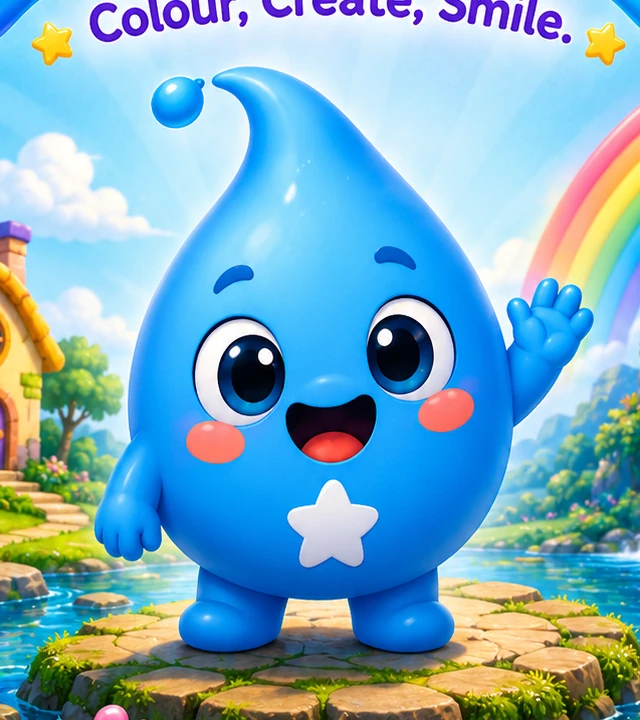
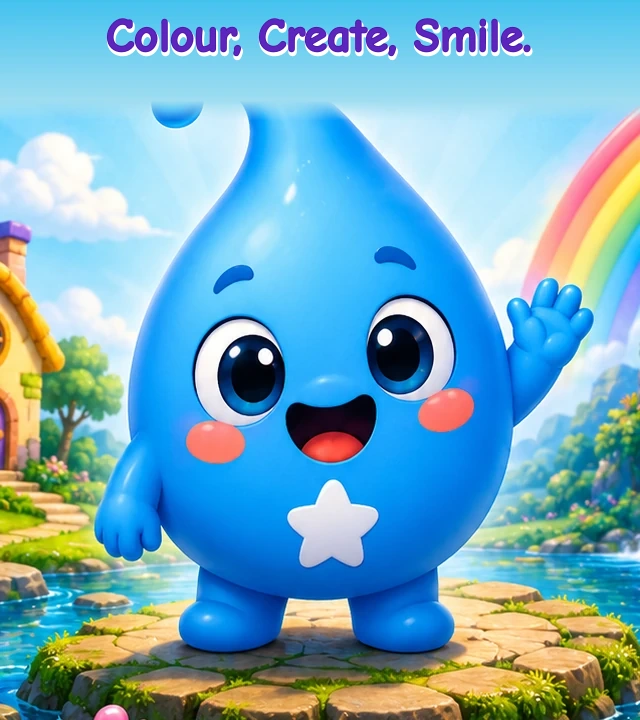
Add files via upload

Changed region(s): [[0.0, 0.0, 1.0, 0.1833]]

diff --git a/index.html b/index.html
@@ -4,13 +4,13 @@
   <meta charset="utf-8">
   <meta name="viewport" content="width=device-width, initial-scale=1">
   <meta name="description" content="PuddlePop is a safe, ad-free colouring adventure for children aged 3–7. Explore six magical worlds, paint beautiful pictures and create happy memories.">
-  <meta name="theme-color" content="#087ee8">
+  <meta name="theme-color" content="#0759c7">
   <meta property="og:title" content="PuddlePop — Colour, Create, Smile">
   <meta property="og:description" content="A safe, ad-free colouring adventure for little artists aged 3–7.">
   <meta property="og:image" content="assets/images/home.webp">
   <title>PuddlePop — Colour, Create, Smile</title>
   <link rel="icon" href="assets/images/pip.webp">
-  <link rel="stylesheet" href="styles-v3.css?v=3">
+  <link rel="stylesheet" href="styles-v5.css?v=8">
   <script defer src="script.js"></script>
   <!-- Google tag (gtag.js) -->
   <script async src="https://www.googletagmanager.com/gtag/js?id=G-1NWRG2J6LN"></script>
@@ -21,34 +21,61 @@
     gtag('config', 'G-1NWRG2J6LN');
   </script>
 </head>
-<body class="homepage">
+<body>
   <a class="skip-link" href="#main">Skip to content</a>
+
+  <header class="site-header">
+    <a class="brand" href="#top" aria-label="PuddlePop home">
+      <img src="assets/images/logo.webp" alt="PuddlePop">
+    </a>
+    <button class="menu-button" type="button" aria-expanded="false" aria-controls="site-nav">Menu</button>
+    <nav id="site-nav" aria-label="Main navigation">
+      <a href="#worlds">Worlds</a>
+      <a href="#parents">For parents</a>
+      <a href="#screenshots">Screenshots</a>
+      <a href="support.html">Support</a>
+      <span class="nav-coming">Coming soon</span>
+    </nav>
+  </header>
+
   <main id="main">
-    <section class="hero-option-two" id="top" aria-labelledby="hero-title">
-      <img class="hero-option-two-art" src="assets/images/hero-option-2.webp" alt="PuddlePop welcome screen with Pip, a wooden sign, six magical worlds and parent trust promises">
-      <h1 id="hero-title" class="visually-hidden">Welcome to PuddlePop</h1>
-      <nav class="hero-hotspots" aria-label="Main navigation">
-        <a class="hotspot hotspot-worlds" href="#worlds"><span>Explore the worlds</span></a>
-        <a class="hotspot hotspot-parents" href="#features"><span>For parents</span></a>
-        <a class="hotspot hotspot-about" href="#screenshots"><span>About PuddlePop</span></a>
-        <a class="hotspot hotspot-support" href="support.html"><span>Support</span></a>
-        <a class="hotspot hotspot-explore" href="#worlds"><span>Explore the worlds</span></a>
-      </nav>
+    <section class="hero" id="top" aria-labelledby="hero-title">
+      <img class="hero-art" src="assets/images/home.webp" alt="Pip surrounded by six magical PuddlePop worlds">
+      <div class="hero-board-copy">
+        <p class="hero-kicker">A magical colouring adventure</p>
+        <h1 id="hero-title"><span>Welcome to</span>PuddlePop</h1>
+      </div>
+      <div class="hero-info-panel" aria-label="PuddlePop introduction">
+        <div class="hero-info-text">
+          <span class="hero-safe-badge">100% ad-free</span>
+          <p>A safe, colourful adventure made for little artists aged 3–7.</p>
+        </div>
+        <div class="hero-actions">
+          <a class="button primary" href="#worlds">Explore the worlds</a>
+          <span class="button secondary">Coming soon on Google Play</span>
+        </div>
+      </div>
     </section>
 
-    <section class="intro section-wave" aria-labelledby="intro-title">
-      <div class="container split">
-        <div class="copy reveal">
-          <p class="eyebrow purple">Made for little artists</p>
+    <section class="intro" aria-labelledby="intro-title">
+      <div class="container intro-grid">
+        <div class="intro-copy reveal">
+          <p class="eyebrow">Made for little artists</p>
           <h2 id="intro-title">Where creativity comes to life</h2>
           <p>PuddlePop is a beautifully designed colouring adventure created especially for children aged <strong>3 to 7</strong>.</p>
           <p>From pirate ships and friendly dinosaurs to magical castles and rocket adventures, every picture encourages imagination, confidence and creativity.</p>
           <div class="mini-badges" aria-label="Key benefits">
-            <span>100% ad-free</span><span>Calm play</span><span>Big controls</span><span>Saved progress</span>
+            <span>100% ad-free</span>
+            <span>Calm play</span>
+            <span>Big controls</span>
+            <span>Saved progress</span>
           </div>
         </div>
-        <figure class="pip-card pip-card-fitted reveal">
-          <img src="assets/images/pip-card-fitted.webp" alt="Pip, PuddlePop's cheerful blue paint-drop mascot, fully visible and waving">
+        <figure class="pip-card reveal">
+          <div class="pip-image-wrap">
+            <img src="assets/images/pip.webp" alt="Pip, the cheerful blue PuddlePop mascot, waving">
+          </div>
+          <figcaption><strong>Hi! I’m Pip!</strong><br>Come and colour with me!</figcaption>
         </figure>
       </div>
     </section>
@@ -59,30 +86,28 @@
         <h2 id="worlds-title" class="centred">Explore magical worlds</h2>
         <p class="section-lead">Every world contains ten cheerful pictures made for small hands and big imaginations.</p>
         <div class="world-grid">
-          <article class="world-card reveal"><img src="assets/images/world-pirate.webp" alt="Pirate ship on a tropical island"><div><span>🏴☠</span><h3>Pirate Cove</h3><p>Treasure, ships and sunny island adventures.</p></div></article>
-          <article class="world-card reveal"><img src="assets/images/world-ocean.webp" alt="Colourful fish and coral reef"><div><span>🐠</span><h3>Ocean Reef</h3><p>Friendly sea creatures beneath sparkling waves.</p></div></article>
-          <article class="world-card reveal"><img src="assets/images/world-dino.webp" alt="Friendly green dinosaur on an island"><div><span>🦕</span><h3>Dino Valley</h3><p>Happy dinosaurs and prehistoric discoveries.</p></div></article>
-          <article class="world-card reveal"><img src="assets/images/world-farm.webp" alt="Red barn on a small green island"><div><span>🚜</span><h3>Farm Hills</h3><p>Animals, tractors and bright country days.</p></div></article>
-          <article class="world-card reveal"><img src="assets/images/world-space.webp" alt="Rocket surrounded by stars and planets"><div><span>🚀</span><h3>Space Lagoon</h3><p>Rockets, planets and twinkling adventures.</p></div></article>
-          <article class="world-card reveal"><img src="assets/images/world-princess.webp" alt="Pink fairy-tale castle"><div><span>👑</span><h3>Princess Castle</h3><p>Castles, magic and storybook wonder.</p></div></article>
+          <article class="world-card reveal"><img src="assets/images/world-pirate.webp" alt="Pirate ship on a tropical island"><div><h3>Pirate Cove</h3><p>Treasure, ships and sunny island adventures.</p></div></article>
+          <article class="world-card reveal"><img src="assets/images/world-ocean.webp" alt="Colourful fish and coral reef"><div><h3>Ocean Reef</h3><p>Friendly sea creatures beneath sparkling waves.</p></div></article>
+          <article class="world-card reveal"><img src="assets/images/world-dino.webp" alt="Friendly green dinosaur on an island"><div><h3>Dino Valley</h3><p>Happy dinosaurs and prehistoric discoveries.</p></div></article>
+          <article class="world-card reveal"><img src="assets/images/world-farm.webp" alt="Red barn on a small green island"><div><h3>Farm Hills</h3><p>Animals, tractors and bright country days.</p></div></article>
+          <article class="world-card reveal"><img src="assets/images/world-space.webp" alt="Rocket surrounded by stars and planets"><div><h3>Space Lagoon</h3><p>Rockets, planets and twinkling adventures.</p></div></article>
+          <article class="world-card reveal"><img src="assets/images/world-princess.webp" alt="Pink fairy-tale castle"><div><h3>Princess Castle</h3><p>Castles, magic and storybook wonder.</p></div></article>
         </div>
       </div>
     </section>
 
-    <section id="features" class="features" aria-labelledby="features-title">
+    <section id="parents" class="features" aria-labelledby="features-title">
       <div class="container">
-        <p class="eyebrow centred purple">Made with parents in mind</p>
+        <p class="eyebrow centred">Made with parents in mind</p>
         <h2 id="features-title" class="centred">Happy creativity. Thoughtful design.</h2>
         <div class="feature-grid">
-          <article class="feature reveal ad-free-feature"><span class="feature-icon">🚫</span><h3>No advertisements</h3><p>PuddlePop contains no third-party advertising, so children can create without disruptive adverts or sales messages.</p></article>
-          <article class="feature reveal"><span class="feature-icon">🎨</span><h3>Encourages creativity</h3><p>Children choose colours and paint with their fingers in a relaxed, playful space.</p></article>
-          <article class="feature reveal"><span class="feature-icon">😊</span><h3>Calm screen time</h3><p>No stressful timers or competitive scoring—just gentle, creative play.</p></article>
-          <article class="feature reveal"><span class="feature-icon">🔒</span><h3>Parent protected</h3><p>Adult settings and purchases sit behind a simple parental gate.</p></article>
-          <article class="feature reveal"><span class="feature-icon">👆</span><h3>Designed for ages 3–7</h3><p>Large controls, clear navigation and a layout designed for young children.</p></article>
-          <article class="feature reveal"><span class="feature-icon">💾</span><h3>Saves every masterpiece</h3><p>Pictures and progress can be continued later for each child profile.</p></article>
-          <article class="feature reveal"><span class="feature-icon">⭐</span><h3>Positive celebrations</h3><p>Finished pictures receive a cheerful celebration and a special gold star.</p></article>
+          <article class="feature reveal"><span>🚫</span><h3>No advertisements</h3><p>No third-party adverts or disruptive sales messages.</p></article>
+          <article class="feature reveal"><span>🎨</span><h3>Encourages creativity</h3><p>Children choose colours and paint in a relaxed space.</p></article>
+          <article class="feature reveal"><span>😊</span><h3>Calm screen time</h3><p>No stressful timers or competitive scoring.</p></article>
+          <article class="feature reveal"><span>🔒</span><h3>Parent protected</h3><p>Adult settings and purchases sit behind a parental gate.</p></article>
+          <article class="feature reveal"><span>👆</span><h3>Designed for ages 3–7</h3><p>Large controls and clear, child-friendly navigation.</p></article>
+          <article class="feature reveal"><span>💾</span><h3>Saves every masterpiece</h3><p>Pictures and progress can be continued later.</p></article>
         </div>
-        <p class="safety-note">PuddlePop is ad-free and does not include third-party advertisements, public chat, social networking or links that children can freely browse.</p>
       </div>
     </section>
 
@@ -91,7 +116,7 @@
         <p class="eyebrow centred">Inside PuddlePop</p>
         <h2 id="screens-title" class="centred">A colourful studio made for small hands</h2>
         <div class="shot-grid">
-          <figure class="shot wide reveal"><img src="assets/images/colouring.webp" alt="PuddlePop Princess Castle colouring studio with colour pots and large buttons"><figcaption>Simple finger painting with large, friendly controls.</figcaption></figure>
+          <figure class="shot wide reveal"><img src="assets/images/colouring.webp" alt="PuddlePop Princess Castle colouring studio"><figcaption>Simple finger painting with large, friendly controls.</figcaption></figure>
           <figure class="shot reveal"><img src="assets/images/gallery.webp" alt="A magical castle world in PuddlePop"><figcaption>Beautifully themed worlds to explore.</figcaption></figure>
           <figure class="shot portrait reveal"><img src="assets/images/splash.webp" alt="PuddlePop loading screen featuring Pip"><figcaption>A warm welcome from Pip.</figcaption></figure>
         </div>
@@ -101,19 +126,36 @@
     <section class="download" aria-labelledby="download-title">
       <div class="download-panel reveal">
         <img src="assets/images/pip.webp" alt="Pip waving">
-        <div><p class="eyebrow">Colour • Create • Smile</p><h2 id="download-title">A world of colour is coming soon</h2><p>PuddlePop is preparing for its Google Play launch. Follow the official website for release information.</p><span class="button coming dark">Coming soon on Google Play</span></div>
+        <div>
+          <p class="eyebrow">Colour • Create • Smile</p>
+          <h2 id="download-title">A world of colour is coming soon</h2>
+          <p>PuddlePop is preparing for its Google Play launch. Follow the official website for release information.</p>
+          <span class="button secondary">Coming soon on Google Play</span>
+        </div>
       </div>
     </section>
   </main>
 
   <footer>
-    <div class="footer-rainbow"></div>
+    <div class="rainbow"></div>
     <div class="container footer-grid">
-      <div><img class="footer-logo" src="assets/images/logo.webp" alt="PuddlePop"><p>A safe, ad-free, calm and creative app for children aged 3–7.</p></div>
-      <div><h2>Help &amp; information</h2><a href="support.html">Support</a><a href="privacy.html">Privacy</a><a href="terms.html">Terms</a><a href="mailto:help@puddlepop.app">help@puddlepop.app</a></div>
-      <div><h2>Company</h2><p>PuddlePop Ltd<br>Registered in England and Wales<br>Company number 17349366</p></div>
+      <div>
+        <img class="footer-logo" src="assets/images/logo.webp" alt="PuddlePop">
+        <p>A safe, ad-free colouring adventure for children aged 3–7.</p>
+      </div>
+      <div>
+        <h2>Information</h2>
+        <a href="support.html">Support</a>
+        <a href="privacy.html">Privacy</a>
+        <a href="terms.html">Terms</a>
+      </div>
+      <div>
+        <h2>Contact</h2>
+        <a href="mailto:help@puddlepop.app">help@puddlepop.app</a>
+        <p>PuddlePop Ltd<br>Company number 17349366</p>
+      </div>
     </div>
-    <p class="copyright">© <span id="year">2026</span> PuddlePop Ltd. All rights reserved.</p>
+    <p class="copyright">© 2026 PuddlePop Ltd. All rights reserved.</p>
   </footer>
 </body>
 </html>

diff --git a/styles-v5.css b/styles-v5.css
@@ -1,0 +1,154 @@
+:root{--blue:#0759c7;--deep:#0d3da2;--purple:#6527b7;--ink:#102b61;--sky:#eefbff;--shadow:0 22px 55px rgba(20,65,135,.18)}
+*{box-sizing:border-box}html{scroll-behavior:smooth}body{margin:0;font-family:Trebuchet MS,Arial,sans-serif;color:var(--ink);background:#fff;line-height:1.55}img{display:block;max-width:100%}a{color:inherit}.skip-link{position:fixed;left:12px;top:-80px;z-index:1000;background:#fff;padding:12px 18px;border-radius:12px}.skip-link:focus{top:12px}.container{width:min(1180px,92vw);margin:auto}.centred{text-align:center}.eyebrow{margin:0 0 .55rem;color:#6c2dd0;text-transform:uppercase;letter-spacing:.1em;font-weight:900;font-size:.82rem}.section-lead{max-width:680px;margin:0 auto 36px;text-align:center;font-size:1.08rem}.site-header{height:82px;padding:0 clamp(18px,4vw,64px);display:flex;align-items:center;justify-content:space-between;background:linear-gradient(90deg,#0755ba,#063a9c);color:#fff;position:relative;z-index:20}.brand img{width:250px;height:66px;object-fit:cover;object-position:center 27%;border-radius:12px}.site-header nav{display:flex;align-items:center;gap:34px;font-weight:900}.site-header nav a{text-decoration:none}.site-header nav a:hover{text-decoration:underline}.nav-coming{padding:.7rem 1.2rem;border-radius:999px;background:linear-gradient(#ffd56c,#ffad35);color:#653200;box-shadow:0 7px 12px rgba(0,0,0,.17)}.menu-button{display:none;border:0;border-radius:12px;padding:.7rem 1rem;font-weight:900;color:#1545a8;background:#fff}
+.hero{position:relative;width:100%;aspect-ratio:16/9;min-height:630px;overflow:hidden;background:#1e9fe7}.hero-art{position:absolute;inset:0;width:100%;height:100%;object-fit:cover}.hero-copy{position:absolute;left:46.75%;top:20.15%;width:22.5%;height:21.4%;max-width:none;transform:translateX(-50%);display:flex;flex-direction:column;align-items:center;justify-content:center;text-align:center;color:#123e8f;padding:.35% 1.1% .45%}.hero-kicker{margin:0 0 .18rem;font-size:clamp(.58rem,.68vw,.78rem);font-weight:900;text-transform:uppercase;letter-spacing:.075em;color:#076ed9;line-height:1.05}.hero-copy h1{margin:0;font-size:clamp(1.62rem,2.55vw,3rem);line-height:.91;color:#0b65cf;text-shadow:0 2px 0 #fff}.hero-copy h1 span{display:block;font-size:.59em;color:#642c9d;text-shadow:none;margin-bottom:.08em;line-height:1}.hero-description{max-width:95%;margin:.38rem auto .48rem;font-size:clamp(.65rem,.73vw,.84rem);font-weight:900;line-height:1.18}.hero-actions{display:flex;flex-direction:column;align-items:center;gap:5px;width:100%}.hero-actions .button{max-width:92%;padding:.48rem .88rem;font-size:clamp(.66rem,.69vw,.8rem)}.button{display:inline-flex;align-items:center;justify-content:center;text-decoration:none;border-radius:999px;padding:.66rem 1.05rem;font-weight:900;line-height:1.15;box-shadow:0 8px 18px rgba(31,67,124,.2)}.button.primary{background:linear-gradient(#7d3dd6,#4c139f);color:#fff;border:3px solid #fff}.button.secondary{background:#fff8e5;color:#8a4700;border:2px solid #ffc44a}
+.intro{padding:105px 0;background:linear-gradient(#effbff,#fff)}.intro-grid{display:grid;grid-template-columns:1.02fr .98fr;align-items:center;gap:84px}.intro-copy h2,.worlds h2,.features h2,.screenshots h2,.download h2{font-size:clamp(2.1rem,4vw,3.65rem);line-height:1.08;margin:.12rem 0 1rem;color:#1949b6}.intro-copy p{font-size:1.1rem}.mini-badges{display:flex;flex-wrap:wrap;gap:10px;margin-top:26px}.mini-badges span{padding:.55rem .9rem;border:2px solid #bce8fb;border-radius:999px;background:#fff;color:#1853ae;font-weight:900}.pip-card{position:relative;margin:0;border:8px solid #fff;border-radius:46px;background:#a9eaff;box-shadow:0 18px 42px rgba(20,65,135,.14);overflow:hidden;min-height:560px}.pip-image-wrap{height:560px;background:#a9eaff}.pip-card img{width:100%;height:100%;object-fit:contain;object-position:center bottom}.pip-card figcaption{position:absolute;right:24px;top:34px;padding:17px 22px;border:4px solid #8fdcf7;border-radius:26px;background:#fff;text-align:center;color:#5927aa;box-shadow:0 12px 28px rgba(20,60,120,.18)}
+.worlds{padding:95px 0;background:linear-gradient(#fff,#eaf8ff)}.world-grid{display:grid;grid-template-columns:repeat(3,1fr);gap:24px}.world-card{overflow:hidden;border:6px solid #fff;border-radius:28px;background:#fff;box-shadow:var(--shadow);transition:.25s}.world-card:hover{transform:translateY(-8px)}.world-card img{width:100%;height:220px;object-fit:cover}.world-card div{padding:18px 20px 24px}.world-card h3{margin:0 0 .3rem;color:#5c29b1;font-size:1.45rem}.world-card p{margin:0}.features{padding:95px 0;background:linear-gradient(145deg,#fff9e9,#fff,#f1ebff)}.feature-grid{display:grid;grid-template-columns:repeat(3,1fr);gap:20px;margin-top:36px}.feature{padding:26px;border:3px solid #eee8ff;border-radius:26px;background:#fff;box-shadow:0 13px 32px rgba(39,52,114,.12)}.feature span{font-size:2.35rem}.feature h3{margin:.45rem 0;color:#562da9}.feature p{margin:0}.screenshots{padding:95px 0;background:#eaf9ff}.shot-grid{display:grid;grid-template-columns:1.45fr 1fr 1fr;gap:22px;margin-top:38px}.shot{display:flex;flex-direction:column;overflow:hidden;margin:0;border:7px solid #fff;border-radius:30px;background:#fff;box-shadow:var(--shadow)}.shot img{width:100%;height:420px;object-fit:cover}.shot figcaption{padding:15px 18px;color:#4f2ca8;font-weight:900;text-align:center}.download{padding:95px 4vw;background:url('assets/images/gallery.webp') center/cover fixed no-repeat}.download-panel{width:min(1000px,94vw);margin:auto;display:grid;grid-template-columns:300px 1fr;align-items:center;gap:36px;padding:26px 44px;border:8px solid #fff;border-radius:44px;background:rgba(255,255,255,.95);box-shadow:0 28px 75px rgba(19,31,92,.35)}.download-panel img{width:100%;height:315px;object-fit:contain;object-position:center bottom;border-radius:28px;background:#bceeff}.rainbow{height:16px;background:linear-gradient(90deg,#ff4f7f,#ff9d2e,#ffe24b,#4bdc6a,#3bc8ff,#5165f3,#a14beb)}footer{background:#103f9f;color:#fff}.footer-grid{display:grid;grid-template-columns:1.2fr .8fr 1fr;gap:50px;padding:56px 0 34px}.footer-logo{width:230px;height:92px;object-fit:cover;object-position:center 27%;border-radius:16px}.footer-grid h2{font-size:1rem;color:#ffec6c;text-transform:uppercase;letter-spacing:.08em}.footer-grid a{display:block;margin:.35rem 0;text-decoration:none}.footer-grid a:hover{text-decoration:underline}.copyright{margin:0;padding:19px;text-align:center;border-top:1px solid rgba(255,255,255,.2)}.reveal{opacity:0;transform:translateY(22px);transition:.65s}.reveal.visible{opacity:1;transform:none}
+@media(max-width:1050px){.site-header nav{gap:20px}.hero{min-height:570px}.hero-copy{left:46.75%;top:20.15%;width:24%;height:21.4%}.intro-grid{gap:42px}.pip-card,.pip-image-wrap{min-height:500px;height:500px}}
+@media(max-width:820px){.site-header{height:74px}.brand img{width:190px;height:54px}.menu-button{display:block}.site-header nav{position:absolute;display:none;top:74px;left:15px;right:15px;flex-direction:column;align-items:stretch;gap:6px;padding:15px;border-radius:18px;background:#fff;color:#1648a6;box-shadow:var(--shadow)}.site-header nav.open{display:flex}.site-header nav a,.nav-coming{padding:.7rem 1rem}.hero{aspect-ratio:auto;min-height:720px}.hero-art{object-position:center}.hero-copy{left:46.75%;top:19%;width:31%;height:23%;}.hero-copy h1{font-size:clamp(2rem,7vw,3.4rem)}.hero-description{font-size:.85rem}.intro-grid,.download-panel{grid-template-columns:1fr}.world-grid,.feature-grid{grid-template-columns:repeat(2,1fr)}.shot-grid{grid-template-columns:1fr 1fr}.shot.wide{grid-column:1/-1}.footer-grid{grid-template-columns:1fr 1fr}.footer-grid>div:first-child{grid-column:1/-1}}
+@media(max-width:560px){.hero{min-height:650px}.hero-art{object-position:50% center}.hero-copy{left:46.75%;top:18.5%;width:43%;height:25%}.hero-kicker{font-size:.58rem}.hero-copy h1{font-size:2rem}.hero-description{font-size:.72rem;margin:.55rem auto}.button{padding:.62rem .85rem;font-size:.78rem}.intro,.worlds,.features,.screenshots{padding:70px 0}.intro-grid{gap:34px}.pip-card,.pip-image-wrap{min-height:430px;height:430px}.pip-card figcaption{top:16px;right:12px;padding:10px 13px;font-size:.8rem}.world-grid,.feature-grid,.shot-grid{grid-template-columns:1fr}.shot.wide{grid-column:auto}.shot img{height:310px}.download{padding:65px 3vw}.download-panel{padding:22px;text-align:center}.download-panel img{height:265px}.footer-grid{grid-template-columns:1fr;gap:24px}.footer-grid>div:first-child{grid-column:auto}}
+
+/* Fresh two-part homepage hero */
+.hero-board-copy{
+  position:absolute;
+  left:46.75%;
+  top:20.1%;
+  width:22.5%;
+  height:20.2%;
+  transform:translateX(-50%);
+  display:flex;
+  flex-direction:column;
+  align-items:center;
+  justify-content:center;
+  text-align:center;
+  color:#123e8f;
+  padding:.7% 1.7% 1%;
+}
+.hero-board-copy .hero-kicker{
+  margin:0 0 .45rem;
+  font-size:clamp(.58rem,.7vw,.82rem);
+  font-weight:900;
+  text-transform:uppercase;
+  letter-spacing:.09em;
+  color:#076ed9;
+  line-height:1.08;
+}
+.hero-board-copy h1{
+  margin:0;
+  font-size:clamp(1.8rem,2.85vw,3.35rem);
+  line-height:.9;
+  color:#0b65cf;
+  text-shadow:0 2px 0 #fff;
+}
+.hero-board-copy h1 span{
+  display:block;
+  margin-bottom:.14em;
+  font-size:.53em;
+  line-height:1;
+  color:#642c9d;
+  text-shadow:none;
+}
+.hero-info-panel{
+  position:absolute;
+  left:50%;
+  bottom:4.2%;
+  width:min(760px,72vw);
+  transform:translateX(-50%);
+  display:flex;
+  align-items:center;
+  justify-content:space-between;
+  gap:24px;
+  padding:16px 18px 16px 24px;
+  border:4px solid rgba(255,255,255,.96);
+  border-radius:28px;
+  background:rgba(255,255,255,.94);
+  box-shadow:0 18px 42px rgba(10,55,125,.28);
+  backdrop-filter:blur(8px);
+}
+.hero-info-text{display:flex;align-items:center;gap:15px;min-width:0}
+.hero-info-text p{margin:0;font-size:clamp(.9rem,1.05vw,1.08rem);font-weight:900;line-height:1.25;color:#173d86}
+.hero-safe-badge{flex:0 0 auto;padding:.55rem .8rem;border-radius:999px;background:linear-gradient(#68df79,#29b94d);color:#fff;font-size:.76rem;font-weight:900;text-transform:uppercase;letter-spacing:.045em;box-shadow:inset 0 -3px 0 rgba(0,0,0,.1)}
+.hero-info-panel .hero-actions{display:flex;flex-direction:row;align-items:center;gap:9px;width:auto;flex:0 0 auto}
+.hero-info-panel .button{max-width:none;padding:.72rem 1rem;font-size:.78rem;white-space:nowrap}
+
+@media(max-width:1050px){
+  .hero-board-copy{left:46.75%;top:20.1%;width:24%;height:20.2%}
+  .hero-info-panel{width:min(720px,82vw)}
+}
+@media(max-width:820px){
+  .hero-board-copy{left:46.75%;top:19%;width:31%;height:22%}
+  .hero-board-copy h1{font-size:clamp(2rem,7vw,3.4rem)}
+  .hero-info-panel{bottom:3%;width:min(620px,92vw);padding:14px 16px;gap:14px}
+  .hero-info-text{gap:10px}
+  .hero-info-panel .hero-actions{flex-direction:column;gap:6px}
+  .hero-info-panel .button{width:100%}
+}
+@media(max-width:560px){
+  .hero-board-copy{left:46.75%;top:18.5%;width:43%;height:24%}
+  .hero-board-copy .hero-kicker{font-size:.54rem;margin-bottom:.3rem}
+  .hero-board-copy h1{font-size:2rem}
+  .hero-info-panel{bottom:2.2%;display:block;width:92vw;padding:14px;border-width:3px;border-radius:23px;text-align:center}
+  .hero-info-text{display:block}
+  .hero-safe-badge{display:inline-block;margin-bottom:8px}
+  .hero-info-text p{font-size:.86rem}
+  .hero-info-panel .hero-actions{margin-top:11px;flex-direction:row}
+  .hero-info-panel .button{font-size:.7rem;padding:.62rem .72rem}
+}
+
+/* Header refinement — keep the full PuddlePop logo visible */
+.site-header{
+  min-height:96px;
+  height:96px;
+  padding:0 clamp(22px,4.5vw,76px);
+  background:linear-gradient(180deg,#1171db 0%,#0759c7 52%,#0645a7 100%);
+  box-shadow:0 8px 24px rgba(8,54,135,.24);
+  overflow:visible;
+}
+.brand{
+  display:flex;
+  align-items:center;
+  align-self:stretch;
+  flex:0 0 auto;
+  padding:8px 0;
+}
+.brand img{
+  width:270px;
+  height:80px;
+  object-fit:contain;
+  object-position:center;
+  border-radius:0;
+}
+.site-header nav{
+  gap:clamp(18px,2.2vw,34px);
+}
+.site-header nav a{
+  position:relative;
+  padding:.45rem 0;
+  text-shadow:0 1px 2px rgba(0,0,0,.14);
+}
+.site-header nav a::after{
+  content:"";
+  position:absolute;
+  left:50%;
+  right:50%;
+  bottom:0;
+  height:3px;
+  border-radius:999px;
+  background:#fff;
+  transition:left .2s ease,right .2s ease;
+}
+.site-header nav a:hover{text-decoration:none}
+.site-header nav a:hover::after,
+.site-header nav a:focus-visible::after{left:0;right:0}
+
+@media(max-width:820px){
+  .site-header{height:82px;min-height:82px;padding:0 18px}
+  .brand{padding:7px 0}
+  .brand img{width:210px;height:68px}
+  .site-header nav{top:82px}
+}
+@media(max-width:430px){
+  .site-header{height:76px;min-height:76px;padding:0 12px}
+  .brand img{width:178px;height:62px}
+  .site-header nav{top:76px;left:10px;right:10px}
+  .menu-button{padding:.62rem .82rem}
+}

diff --git a/styles-v4.css b/styles-v4.css
@@ -1,0 +1,8 @@
+:root{--blue:#0759c7;--deep:#0d3da2;--purple:#6527b7;--ink:#102b61;--sky:#eefbff;--shadow:0 22px 55px rgba(20,65,135,.18)}
+*{box-sizing:border-box}html{scroll-behavior:smooth}body{margin:0;font-family:Trebuchet MS,Arial,sans-serif;color:var(--ink);background:#fff;line-height:1.55}img{display:block;max-width:100%}a{color:inherit}.skip-link{position:fixed;left:12px;top:-80px;z-index:1000;background:#fff;padding:12px 18px;border-radius:12px}.skip-link:focus{top:12px}.container{width:min(1180px,92vw);margin:auto}.centred{text-align:center}.eyebrow{margin:0 0 .55rem;color:#6c2dd0;text-transform:uppercase;letter-spacing:.1em;font-weight:900;font-size:.82rem}.section-lead{max-width:680px;margin:0 auto 36px;text-align:center;font-size:1.08rem}.site-header{height:82px;padding:0 clamp(18px,4vw,64px);display:flex;align-items:center;justify-content:space-between;background:linear-gradient(90deg,#0755ba,#063a9c);color:#fff;position:relative;z-index:20}.brand img{width:250px;height:66px;object-fit:cover;object-position:center 27%;border-radius:12px}.site-header nav{display:flex;align-items:center;gap:34px;font-weight:900}.site-header nav a{text-decoration:none}.site-header nav a:hover{text-decoration:underline}.nav-coming{padding:.7rem 1.2rem;border-radius:999px;background:linear-gradient(#ffd56c,#ffad35);color:#653200;box-shadow:0 7px 12px rgba(0,0,0,.17)}.menu-button{display:none;border:0;border-radius:12px;padding:.7rem 1rem;font-weight:900;color:#1545a8;background:#fff}
+.hero{position:relative;width:100%;aspect-ratio:16/9;min-height:630px;overflow:hidden;background:#1e9fe7}.hero-art{position:absolute;inset:0;width:100%;height:100%;object-fit:cover}.hero-copy{position:absolute;left:50%;top:18%;transform:translateX(-50%);width:30%;max-width:520px;text-align:center;color:#123e8f}.hero-kicker{margin:0 0 .35rem;font-size:clamp(.65rem,.9vw,.92rem);font-weight:900;text-transform:uppercase;letter-spacing:.08em;color:#076ed9}.hero-copy h1{margin:0;font-size:clamp(2.1rem,4.2vw,4.8rem);line-height:.88;color:#0b65cf;text-shadow:0 3px 0 #fff}.hero-copy h1 span{display:block;font-size:.58em;color:#642c9d;text-shadow:none;margin-bottom:.12em}.hero-description{max-width:420px;margin:.8rem auto 1rem;font-size:clamp(.76rem,1.05vw,1.08rem);font-weight:900}.hero-actions{display:flex;flex-direction:column;align-items:center;gap:10px}.button{display:inline-flex;align-items:center;justify-content:center;text-decoration:none;border-radius:999px;padding:.78rem 1.25rem;font-weight:900;line-height:1.15;box-shadow:0 8px 18px rgba(31,67,124,.2)}.button.primary{background:linear-gradient(#7d3dd6,#4c139f);color:#fff;border:3px solid #fff}.button.secondary{background:#fff8e5;color:#8a4700;border:2px solid #ffc44a}
+.intro{padding:105px 0;background:linear-gradient(#effbff,#fff)}.intro-grid{display:grid;grid-template-columns:1.02fr .98fr;align-items:center;gap:72px}.intro-copy h2,.worlds h2,.features h2,.screenshots h2,.download h2{font-size:clamp(2.1rem,4vw,3.65rem);line-height:1.08;margin:.12rem 0 1rem;color:#1949b6}.intro-copy p{font-size:1.1rem}.mini-badges{display:flex;flex-wrap:wrap;gap:10px;margin-top:26px}.mini-badges span{padding:.55rem .9rem;border:2px solid #bce8fb;border-radius:999px;background:#fff;color:#1853ae;font-weight:900}.pip-card{position:relative;margin:0;border:8px solid #fff;border-radius:46px;background:#a9eaff;box-shadow:var(--shadow);overflow:hidden;min-height:560px}.pip-image-wrap{height:560px;background:#a9eaff}.pip-card img{width:100%;height:100%;object-fit:contain;object-position:center bottom}.pip-card figcaption{position:absolute;right:24px;top:34px;padding:17px 22px;border:4px solid #8fdcf7;border-radius:26px;background:#fff;text-align:center;color:#5927aa;box-shadow:0 12px 28px rgba(20,60,120,.18)}
+.worlds{padding:95px 0;background:linear-gradient(#fff,#eaf8ff)}.world-grid{display:grid;grid-template-columns:repeat(3,1fr);gap:24px}.world-card{overflow:hidden;border:6px solid #fff;border-radius:28px;background:#fff;box-shadow:var(--shadow);transition:.25s}.world-card:hover{transform:translateY(-8px)}.world-card img{width:100%;height:220px;object-fit:cover}.world-card div{padding:18px 20px 24px}.world-card h3{margin:0 0 .3rem;color:#5c29b1;font-size:1.45rem}.world-card p{margin:0}.features{padding:95px 0;background:linear-gradient(145deg,#fff9e9,#fff,#f1ebff)}.feature-grid{display:grid;grid-template-columns:repeat(3,1fr);gap:20px;margin-top:36px}.feature{padding:26px;border:3px solid #eee8ff;border-radius:26px;background:#fff;box-shadow:0 13px 32px rgba(39,52,114,.12)}.feature span{font-size:2.35rem}.feature h3{margin:.45rem 0;color:#562da9}.feature p{margin:0}.screenshots{padding:95px 0;background:#eaf9ff}.shot-grid{display:grid;grid-template-columns:1.45fr 1fr 1fr;gap:22px;margin-top:38px}.shot{display:flex;flex-direction:column;overflow:hidden;margin:0;border:7px solid #fff;border-radius:30px;background:#fff;box-shadow:var(--shadow)}.shot img{width:100%;height:420px;object-fit:cover}.shot figcaption{padding:15px 18px;color:#4f2ca8;font-weight:900;text-align:center}.download{padding:95px 4vw;background:url('assets/images/gallery.webp') center/cover fixed no-repeat}.download-panel{width:min(1000px,94vw);margin:auto;display:grid;grid-template-columns:300px 1fr;align-items:center;gap:36px;padding:26px 44px;border:8px solid #fff;border-radius:44px;background:rgba(255,255,255,.95);box-shadow:0 28px 75px rgba(19,31,92,.35)}.download-panel img{width:100%;height:315px;object-fit:contain;object-position:center bottom;border-radius:28px;background:#bceeff}.rainbow{height:16px;background:linear-gradient(90deg,#ff4f7f,#ff9d2e,#ffe24b,#4bdc6a,#3bc8ff,#5165f3,#a14beb)}footer{background:#103f9f;color:#fff}.footer-grid{display:grid;grid-template-columns:1.2fr .8fr 1fr;gap:50px;padding:56px 0 34px}.footer-logo{width:230px;height:92px;object-fit:cover;object-position:center 27%;border-radius:16px}.footer-grid h2{font-size:1rem;color:#ffec6c;text-transform:uppercase;letter-spacing:.08em}.footer-grid a{display:block;margin:.35rem 0;text-decoration:none}.footer-grid a:hover{text-decoration:underline}.copyright{margin:0;padding:19px;text-align:center;border-top:1px solid rgba(255,255,255,.2)}.reveal{opacity:0;transform:translateY(22px);transition:.65s}.reveal.visible{opacity:1;transform:none}
+@media(max-width:1050px){.site-header nav{gap:20px}.hero{min-height:570px}.hero-copy{top:16%;width:34%}.intro-grid{gap:42px}.pip-card,.pip-image-wrap{min-height:500px;height:500px}}
+@media(max-width:820px){.site-header{height:74px}.brand img{width:190px;height:54px}.menu-button{display:block}.site-header nav{position:absolute;display:none;top:74px;left:15px;right:15px;flex-direction:column;align-items:stretch;gap:6px;padding:15px;border-radius:18px;background:#fff;color:#1648a6;box-shadow:var(--shadow)}.site-header nav.open{display:flex}.site-header nav a,.nav-coming{padding:.7rem 1rem}.hero{aspect-ratio:auto;min-height:720px}.hero-art{object-position:center}.hero-copy{top:11%;width:44%;}.hero-copy h1{font-size:clamp(2rem,7vw,3.4rem)}.hero-description{font-size:.85rem}.intro-grid,.download-panel{grid-template-columns:1fr}.world-grid,.feature-grid{grid-template-columns:repeat(2,1fr)}.shot-grid{grid-template-columns:1fr 1fr}.shot.wide{grid-column:1/-1}.footer-grid{grid-template-columns:1fr 1fr}.footer-grid>div:first-child{grid-column:1/-1}}
+@media(max-width:560px){.hero{min-height:650px}.hero-art{object-position:50% center}.hero-copy{top:10%;width:58%}.hero-kicker{font-size:.58rem}.hero-copy h1{font-size:2rem}.hero-description{font-size:.72rem;margin:.55rem auto}.button{padding:.62rem .85rem;font-size:.78rem}.intro,.worlds,.features,.screenshots{padding:70px 0}.intro-grid{gap:34px}.pip-card,.pip-image-wrap{min-height:430px;height:430px}.pip-card figcaption{top:16px;right:12px;padding:10px 13px;font-size:.8rem}.world-grid,.feature-grid,.shot-grid{grid-template-columns:1fr}.shot.wide{grid-column:auto}.shot img{height:310px}.download{padding:65px 3vw}.download-panel{padding:22px;text-align:center}.download-panel img{height:265px}.footer-grid{grid-template-columns:1fr;gap:24px}.footer-grid>div:first-child{grid-column:auto}}

diff --git a/support.html b/support.html
@@ -1,4 +1,4 @@
-<!doctype html><html lang="en-GB"><head><meta charset="utf-8"><meta name="viewport" content="width=device-width,initial-scale=1"><meta name="description" content="Get help and support for the PuddlePop children's colouring app."><title>PuddlePop Support</title><link rel="stylesheet" href="styles-v3.css?v=3">
+<!doctype html><html lang="en-GB"><head><meta charset="utf-8"><meta name="viewport" content="width=device-width,initial-scale=1"><meta name="description" content="Get help and support for the PuddlePop children's colouring app."><title>PuddlePop Support</title><link rel="stylesheet" href="styles-v4.css?v=4">
   <!-- Google tag (gtag.js) -->
   <script async src="https://www.googletagmanager.com/gtag/js?id=G-1NWRG2J6LN"></script>
   <script>

diff --git a/privacy.html b/privacy.html
@@ -1,4 +1,4 @@
-<!doctype html><html lang="en-GB"><head><meta charset="utf-8"><meta name="viewport" content="width=device-width,initial-scale=1"><meta name="robots" content="noindex"><title>PuddlePop Privacy Policy</title><link rel="stylesheet" href="styles-v3.css?v=3">
+<!doctype html><html lang="en-GB"><head><meta charset="utf-8"><meta name="viewport" content="width=device-width,initial-scale=1"><meta name="robots" content="noindex"><title>PuddlePop Privacy Policy</title><link rel="stylesheet" href="styles-v4.css?v=4">
   <!-- Google tag (gtag.js) -->
   <script async src="https://www.googletagmanager.com/gtag/js?id=G-1NWRG2J6LN"></script>
   <script>

diff --git a/terms.html b/terms.html
@@ -1,4 +1,4 @@
-<!doctype html><html lang="en-GB"><head><meta charset="utf-8"><meta name="viewport" content="width=device-width,initial-scale=1"><meta name="robots" content="noindex"><title>PuddlePop Terms</title><link rel="stylesheet" href="styles-v3.css?v=3">
+<!doctype html><html lang="en-GB"><head><meta charset="utf-8"><meta name="viewport" content="width=device-width,initial-scale=1"><meta name="robots" content="noindex"><title>PuddlePop Terms</title><link rel="stylesheet" href="styles-v4.css?v=4">
   <!-- Google tag (gtag.js) -->
   <script async src="https://www.googletagmanager.com/gtag/js?id=G-1NWRG2J6LN"></script>
   <script>

diff --git a/404.html b/404.html
@@ -1,4 +1,4 @@
-<!doctype html><html lang="en-GB"><head><meta charset="utf-8"><meta name="viewport" content="width=device-width,initial-scale=1"><title>Page not found — PuddlePop</title><link rel="stylesheet" href="styles-v3.css?v=3">
+<!doctype html><html lang="en-GB"><head><meta charset="utf-8"><meta name="viewport" content="width=device-width,initial-scale=1"><title>Page not found — PuddlePop</title><link rel="stylesheet" href="styles-v4.css?v=4">
   <!-- Google tag (gtag.js) -->
   <script async src="https://www.googletagmanager.com/gtag/js?id=G-1NWRG2J6LN"></script>
   <script>

diff --git a/styles-v3.css b/styles-v3.css
@@ -80,8 +80,3 @@ main,
     transform: translateX(-17.5vw);
   }
 }
-
-
-/* Pip introduction card: approved full-character image only */
-.pip-card.pip-card-fitted{min-height:0;background:transparent;border:0;border-radius:0;box-shadow:none;overflow:visible}
-.pip-card.pip-card-fitted img{width:100%;height:auto;object-fit:contain;object-position:center;filter:drop-shadow(0 18px 35px rgba(18,67,132,.18))}
